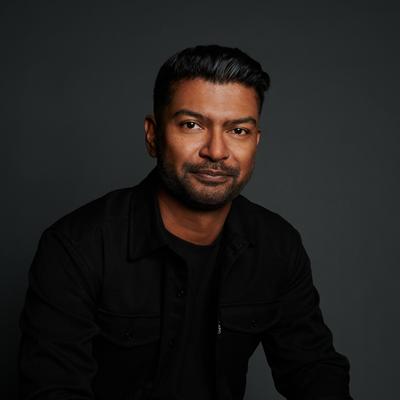
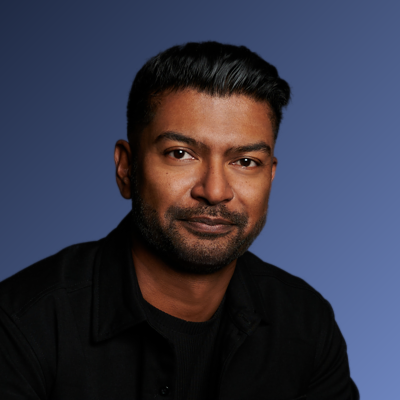
feat(marketing): founder roles, Azlan's bio, and a consistent portrait treatment
Roles updated across both About surfaces:
- Chris  -> Co-Founder, Financial Planning and Technology Lead
- Brett  -> Co-Founder, Operations and Strategy Lead
- Azlan  -> Co-Founder, Product and Marketing Lead

Azlan's card now carries real copy in place of the placeholders: qualifications,
a short accolade list in Experience (names only, no rankings — those read better
without the numbers at that size), and a two-paragraph third-person bio. The
rankings were previously duplicated between Experience and the bio, so dropping
them from the prose is what let it come down from three paragraphs to two without
losing anything.

Portraits: all three headshots are cut out of their original backgrounds and
composited onto the same gradient as the homepage "You could save tax today"
panel — linear-gradient(135deg, horizon-500, light-blue-500) — so the trio reads
as one set instead of three unrelated shoots (busy office / white studio / dark
studio). Cutouts use U2Net human segmentation with alpha matting for clean hair
edges; Chris's and Brett's were re-cut from their originals rather than from an
already-composited image. Azlan's keeps its natural skin tones — the earlier
brightening only existed to rescue the dark background, which is now replaced.

diff --git a/resources/js/views/Public/AboutPage.vue b/resources/js/views/Public/AboutPage.vue
@@ -112,7 +112,7 @@
                 class="w-32 h-32 rounded-full object-cover border-4 border-violet-500/30 mb-4"
               />
               <h3 class="text-2xl font-bold text-white">Chris Slater-Jones</h3>
-              <p class="text-violet-400 font-medium">Co-Founder, Financial Planning Lead</p>
+              <p class="text-violet-400 font-medium">Co-Founder, Financial Planning and Technology Lead</p>
             </div>
 
             <div class="grid grid-cols-2 gap-3 mb-6 text-sm">
@@ -145,7 +145,7 @@
                 class="w-32 h-32 rounded-full object-cover border-4 border-emerald-500/30 mb-4"
               />
               <h3 class="text-2xl font-bold text-white">Brett Isenberg, FCA</h3>
-              <p class="text-emerald-400 font-medium">Co-Founder, Technology &amp; Strategy Lead</p>
+              <p class="text-emerald-400 font-medium">Co-Founder, Operations and Strategy Lead</p>
             </div>
 
             <div class="grid grid-cols-2 gap-3 mb-6 text-sm">
@@ -178,26 +178,26 @@
                 class="w-32 h-32 rounded-full object-cover border-4 border-raspberry-500/30 mb-4"
               />
               <h3 class="text-2xl font-bold text-white">Azlan Raj</h3>
-              <p class="text-raspberry-400 font-medium">Co-Founder, Chief Marketing Officer</p>
+              <p class="text-raspberry-400 font-medium">Co-Founder, Product and Marketing Lead</p>
             </div>
 
             <div class="grid grid-cols-2 gap-3 mb-6 text-sm">
               <div>
                 <p class="text-slate-500 font-medium">Qualifications</p>
-                <p class="text-slate-300">Lorem ipsum dolor sit amet, consectetur adipiscing elit</p>
+                <p class="text-slate-300">BA Fine Art with Business &amp; IT; MA Computer Arts</p>
               </div>
               <div>
                 <p class="text-slate-500 font-medium">Experience</p>
-                <p class="text-slate-300">Lorem ipsum dolor sit amet, consectetur adipiscing elit</p>
+                <p class="text-slate-300">20+ years in marketing (Performance Marketing World Powerlist, PerformanceIN, CXM Today, CXM Hall of Fame)</p>
               </div>
             </div>
 
             <div class="space-y-4 text-slate-300 leading-relaxed">
               <p>
-                Lorem ipsum dolor sit amet, consectetur adipiscing elit, sed do eiusmod tempor incididunt ut labore et dolore magna aliqua. Ut enim ad minim veniam, quis nostrud exercitation ullamco laboris nisi ut aliquip ex ea commodo consequat. Duis aute irure dolor in reprehenderit in voluptate velit esse cillum dolore eu fugiat nulla pariatur.
+                Azlan is an award-winning Chief Marketing Officer and best-selling author with over 25 years' experience leading global marketing transformations. He drives hyper-growth through a blend of business outcomes, data, AI-driven technology and creativity, working with some of the world's largest brands — Vodafone, Sky, Rolex, Unilever, Aviva and Intel — as well as early-stage startups, helping them define their brand, accelerate growth and transform their marketing organisations.
               </p>
               <p>
-                Excepteur sint occaecat cupidatat non proident, sunt in culpa qui officia deserunt mollit anim id est laborum. Sed ut perspiciatis unde omnis iste natus error sit voluptatem accusantium doloremque laudantium, totam rem aperiam eaque ipsa quae ab illo inventore veritatis.
+                He co-authored the Amazon best-seller "Shift: Transform motion into progress in business", holds a joint world record for the world's smallest advert, and sits on industry boards including the Forbes Communications Council, Performance Marketing World, ClickZ and the DMA Customer Engagement Committee. His style is approachable but honest — focused on innovation grounded in reality, and what it actually means for businesses today.
               </p>
             </div>
           </div>

diff --git a/public/pages/about.php b/public/pages/about.php
@@ -206,7 +206,7 @@
                 loading="lazy"
               />
               <h3 id="csj-heading" class="founder-card__name">Chris Slater-Jones</h3>
-              <p class="founder-card__role founder-card__role--violet">Co-Founder, Financial Planning Lead</p>
+              <p class="founder-card__role founder-card__role--violet">Co-Founder, Financial Planning and Technology Lead</p>
             </div>
 
             <dl class="founder-card__meta">
@@ -242,7 +242,7 @@
                 loading="lazy"
               />
               <h3 id="brett-heading" class="founder-card__name">Brett Isenberg, FCA</h3>
-              <p class="founder-card__role founder-card__role--spring">Co-Founder, Technology &amp; Strategy Lead</p>
+              <p class="founder-card__role founder-card__role--spring">Co-Founder, Operations and Strategy Lead</p>
             </div>
 
             <dl class="founder-card__meta">
@@ -278,26 +278,26 @@
                 loading="lazy"
               />
               <h3 id="azlan-heading" class="founder-card__name">Azlan Raj</h3>
-              <p class="founder-card__role founder-card__role--raspberry">Co-Founder, Chief Marketing Officer</p>
+              <p class="founder-card__role founder-card__role--raspberry">Co-Founder, Product and Marketing Lead</p>
             </div>
 
             <dl class="founder-card__meta">
               <div class="founder-card__meta-item">
                 <dt class="founder-card__meta-label">Qualifications</dt>
-                <dd class="founder-card__meta-value">Lorem ipsum dolor sit amet, consectetur adipiscing elit</dd>
+                <dd class="founder-card__meta-value">BA Fine Art with Business &amp; IT; MA Computer Arts</dd>
               </div>
               <div class="founder-card__meta-item">
                 <dt class="founder-card__meta-label">Experience</dt>
-                <dd class="founder-card__meta-value">Lorem ipsum dolor sit amet, consectetur adipiscing elit</dd>
+                <dd class="founder-card__meta-value">20+ years in marketing (Performance Marketing World Powerlist, PerformanceIN, CXM Today, CXM Hall of Fame)</dd>
               </div>
             </dl>
 
             <div class="founder-card__bio">
               <p>
-                Lorem ipsum dolor sit amet, consectetur adipiscing elit, sed do eiusmod tempor incididunt ut labore et dolore magna aliqua. Ut enim ad minim veniam, quis nostrud exercitation ullamco laboris nisi ut aliquip ex ea commodo consequat. Duis aute irure dolor in reprehenderit in voluptate velit esse cillum dolore eu fugiat nulla pariatur.
+                Azlan is an award-winning Chief Marketing Officer and best-selling author with over 25 years&rsquo; experience leading global marketing transformations. He drives hyper-growth through a blend of business outcomes, data, AI-driven technology and creativity, working with some of the world&rsquo;s largest brands &mdash; Vodafone, Sky, Rolex, Unilever, Aviva and Intel &mdash; as well as early-stage startups, helping them define their brand, accelerate growth and transform their marketing organisations.
               </p>
               <p>
-                Excepteur sint occaecat cupidatat non proident, sunt in culpa qui officia deserunt mollit anim id est laborum. Sed ut perspiciatis unde omnis iste natus error sit voluptatem accusantium doloremque laudantium, totam rem aperiam eaque ipsa quae ab illo inventore veritatis.
+                He co-authored the Amazon best-seller &ldquo;Shift: Transform motion into progress in business&rdquo;, holds a joint world record for the world&rsquo;s smallest advert, and sits on industry boards including the Forbes Communications Council, Performance Marketing World, ClickZ and the DMA Customer Engagement Committee. His style is approachable but honest &mdash; focused on innovation grounded in reality, and what it actually means for businesses today.
               </p>
             </div>
           </article>
